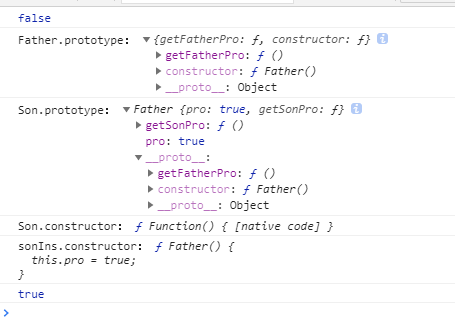
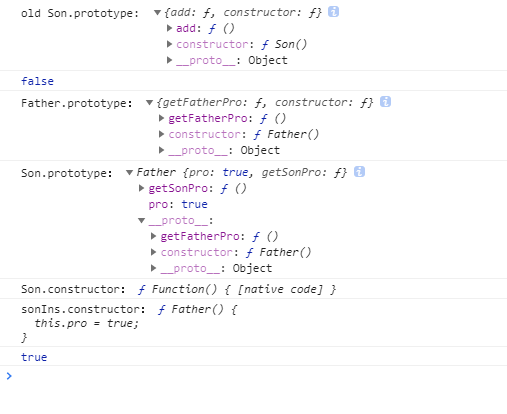
更新js继承方法

diff --git a/js-grammar/aa.js b/js-grammar/aa.js
@@ -10,6 +10,7 @@ function Son() {
 Son.prototype.add = function () {
   return "继承之前子类原型添加的方法";
 };
+console.log('old Son.prototype: ',Son.prototype)
 Son.prototype = new Father(); //继承：父类的实例赋值给子类的原型对象
 // Son.prototype.__proto__ = Father.prototype; //a.
 // Son.prototype = Father.prototype; //b.
@@ -21,6 +22,7 @@ let sonIns = new Son();
 console.log(sonIns.getFatherPro()); //false(调用父类的方法)
 console.log('Father.prototype：',Father.prototype);
 console.log('Son.prototype：', Son.prototype);
-console.log('Son.constructor：',Son.constructor); //[Function: Function] （子类的构造函数是Function）
-console.log('sonIns.constructor：',sonIns.constructor); //[Function: Father]（子类实例的构造函数指向父类）
+console.log('Son.constructor：',Son.constructor);
+console.log('sonIns.constructor：',sonIns.constructor);
 console.log(sonIns instanceof Son) //true sonIns.__proto__ === Son.prototype
+

diff --git a/js-grammar/inherit.md b/js-grammar/inherit.md
@@ -15,6 +15,7 @@ function Son() {
 Son.prototype.add = function () {
   return "继承之前子类原型添加的方法";
 };
+console.log('old Son.prototype: ',Son.prototype)
 Son.prototype = new Father(); //继承：父类的实例赋值给子类的原型对象
 // Son.prototype.__proto__ = Father.prototype; //a.
 // Son.prototype = Father.prototype; //b.
@@ -26,11 +27,13 @@ let sonIns = new Son();
 console.log(sonIns.getFatherPro()); //false(调用父类的方法)
 console.log('Father.prototype：',Father.prototype);
 console.log('Son.prototype：', Son.prototype);
-console.log('Son.constructor：',Son.constructor); //[Function: Function] （子类的构造函数是Function）
-console.log('sonIns.constructor：',sonIns.constructor); //[Function: Father]（子类实例的构造函数指向父类）
+console.log('Son.constructor：',Son.constructor); 
+console.log('sonIns.constructor：',sonIns.constructor);
 console.log(sonIns instanceof Son) //true sonIns.__proto__ === Son.prototype
 ```
 打印如下：<br>
 ![](image/16196869288401.png)<br>
 原型链关系如下图：<br>
 ![](image/16196884573155.png)
+可以看出Son.prototype中没有了constructor属性，这是因为在`Son.prototype = new Father()`时Son.prototype已经被
+重写了
